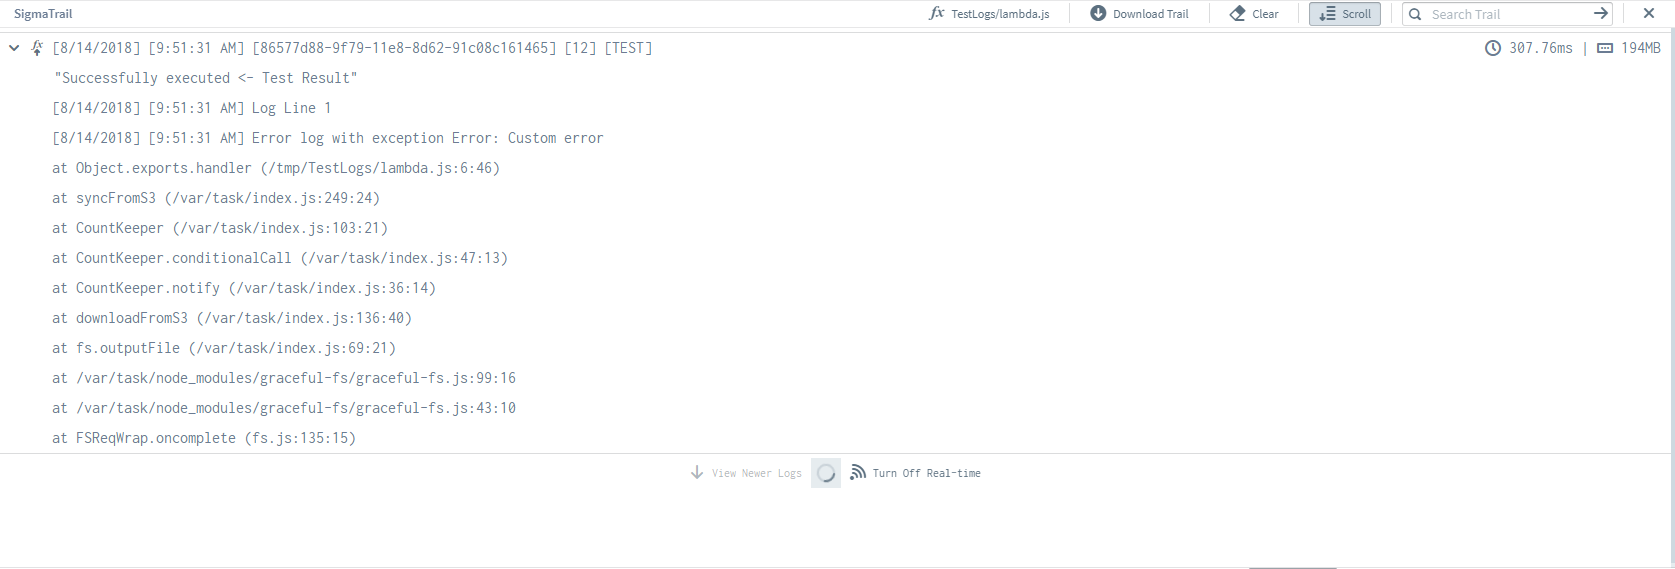
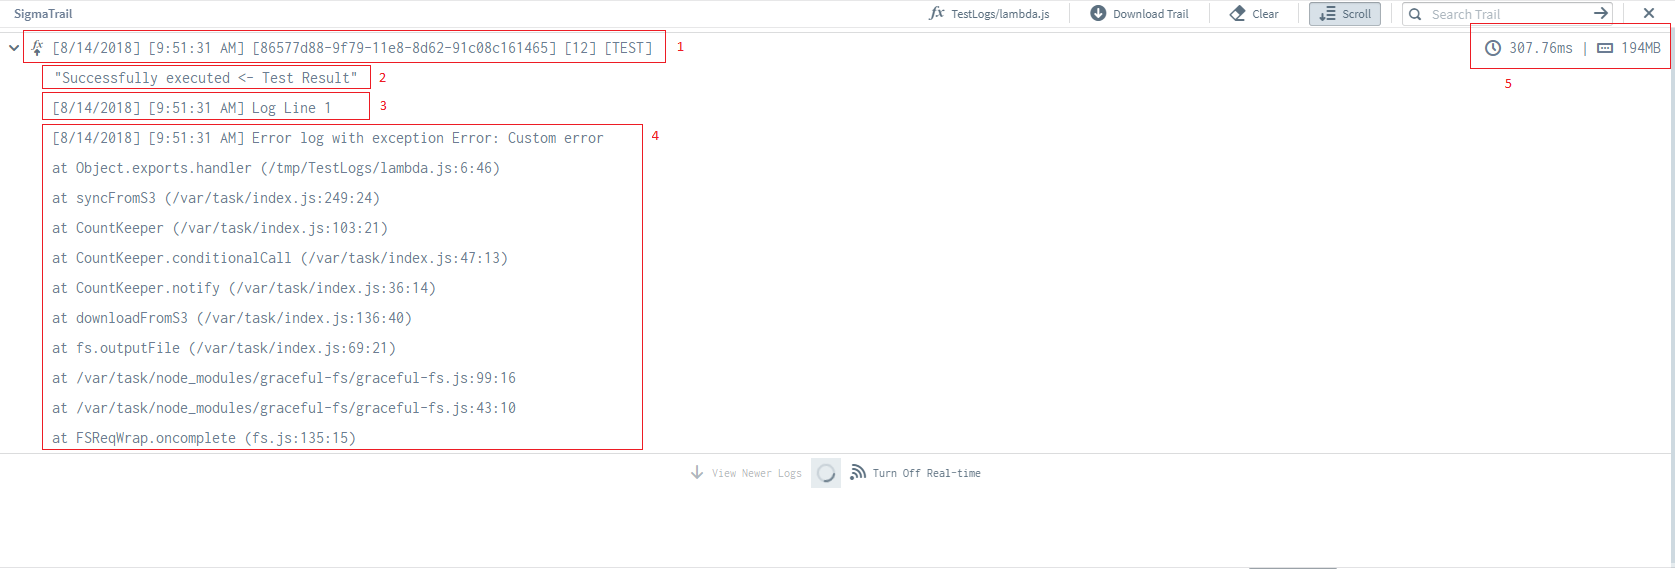
Adding sigma trail docs

Changed region(s): [[0.031, 0.2091, 0.2173, 0.239], [0.031, 0.1494, 0.2173, 0.1793], [0.031, 0.0896, 0.2173, 0.1195]]

diff --git a/docs/features/logs/logs.md b/docs/features/logs/logs.md
@@ -2,12 +2,91 @@
 
 In sigma, we have categorized logs into two types.
 
-* Test Logs
-* Production (Prod) Logs
-
-## Test Logs
+#### 1. Test Logs [TEST]
 
 Test logs are the type, that will be generated in realtime when you execute a test case within the IDE. These logs will include the result/response of the test execution and the generated logs in line.
 
+#### 2. Prod Logs [PROD]
+
+Prod logs are the type, that will be generated when you invoke the lambda function through one of your event sources. (ie: Api Gateway, S3 event etc.)
+These logs does not include the result/response of the execution.
+
+## Log Request
+
+We refer log request as the group of log lines which are generated during a one cycle of execution of lambda function.
+
 # ![](images/test_log.png)
+
+1. Log Request header
+
+Log request header gives you a quick insight about the Log Request. The format of the header is as follows.
+
+[Date] [Time] [Request Id] [No of log lines] [TEST / PROD]
+
+You can click on Log request header to expand or collapse the log lines.
+
+2. Test execution result
+
+This section is only applicable for TEST logs. If the result can be parsed to a JSON, Sigma will show you the response in an expandable JSON tree.
+
+# ![](images/json_logs.png)
+
+3. Log line
+
+Log line is a single line of a console log generated by lambda code
+
+4. Stack Trace
+
+Stack trace is a report of the active stack frames at the time of an error is thrown. This will be useful when debugging an application.
+
+5. Resource Utilization
+
+This section indicates the time taken to execute the function logic and the memory utilized to process the respective request.
+
+## Sigma Trail Controllers
+
+# ![](images/trail_controllers.png)
+
+Sigma trail header has following controls to fine tune your logs view.
+
+1. Lambda Selector
+ 
+ Sigma Trail shows only trails related to one particular function within one screen. If you want to switch sigma trail to show trails of a different function, click on this button to get a list of available lambda functions.
+ 
+ In addition to this selector, switching between editor tabs will automtically switch Sigma Trail to show logs of the focused function.
+ 
+ 2. Download Trail
+ 
+ Sigma allows you to download logs in following two formats.
+ 
+ * Text
+ * JSON
+ 
+ 3. Clear Logs
+ 
+ If you are not interested about the visible logs, you can hide visible logs by this button.
+ 
+ 4. Auto Scroll 
+ 
+ Sigma automatically scrolls the trail for you. Whenever a new Log request is appended, trail will get automatically scrolled and expand the new log request. You may switch on/off this feature by toggling this button.
+ 
+ 5. Search logs
+ 
+You can filter Sigma trails by using [cloudwatch filter pattern and syntax](https://docs.aws.amazon.com/AmazonCloudWatch/latest/logs/FilterAndPatternSyntax.html).
+
+This will give you an effect similar to tailing with grep.
+
+6. Close
+
+Close the sigma trail panel.
+
+## Resizing logs view
+
+If you want to make more room for your code, you may resize sigma trail by holding and dragging the header as below.
+
+# ![](images/trail_resize.gif)
+
+
+
+
 
